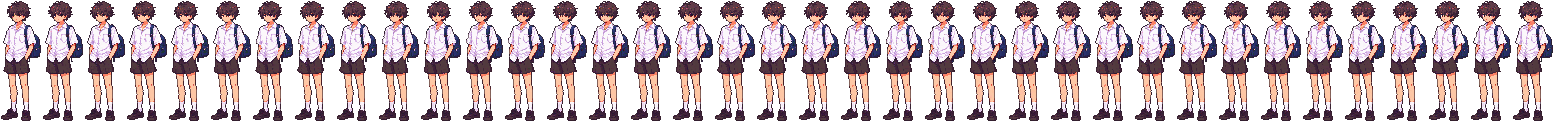
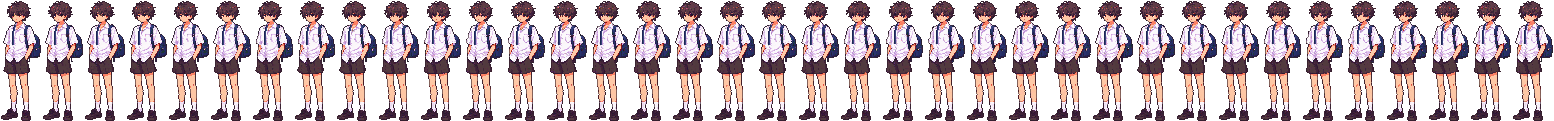
Idle: draw the backpack's second strap
The idle art wears the bag on one shoulder, so flipping the sprite to
face right moved the bag to the other side, while the walk shows both
straps. import_idle_video.py now draws a 2px navy strap over the free
shoulder in every frame, placed from that frame's collar row and
shoulder outline so it moves with the body (--no-strap to skip).

Claude-Session: https://claude.ai/code/session_011NAKRUA9btL4iodwTEM3Dh

diff --git a/tools/import_idle_video.py b/tools/import_idle_video.py
@@ -9,6 +9,10 @@ For standing still it also:
   - scales the character so the shirt collar is as high above the ground as in the
     idle sprite, so walking and standing match
   - keeps one sampling grid for all frames, so still parts don't shimmer
+  - draws the backpack's second strap over the free shoulder (the source art wears
+    the bag on one shoulder, so flipping the sprite moved the bag to the other side;
+    the walk shows both straps). It follows the collar and the shoulder outline
+    frame by frame.
 
 Usage:
   python3 tools/import_idle_video.py VIDEO assets/characters/hero_idle_video.png \\
@@ -28,6 +32,26 @@ from import_walk_video import (add_outline, cell_sample, features, is_green,  # 
                                kmeans, landmarks, nearest, shift_img)
 
 
+# Second strap, relative to the collar row (first row with 6+ white shirt pixels) and
+# the outline of the free shoulder 8 rows below it: (dy, dx) of the strap's left column.
+STRAP = [(-1, 8), (0, 8), (1, 7), (2, 7), (3, 7), (4, 7)] + [(dy, 6) for dy in range(5, 19)]
+STRAP_DARK, STRAP_LIT = (30, 38, 84, 255), (54, 66, 122, 255)
+
+
+def add_strap(frame):
+    a = frame[..., 3] > 0
+    white = a & (frame[..., :3].min(2) > 185)
+    collar = next(y for y in range(frame.shape[0]) if white[y].sum() >= 6)
+    left = int(np.nonzero(a[collar + 8])[0].min())
+    out = frame.copy()
+    for dy, dx in STRAP:
+        y, x = collar + dy, left + dx
+        if a[y, x] and a[y, x + 1]:
+            out[y, x] = STRAP_DARK
+            out[y, x + 1] = STRAP_LIT
+    return out
+
+
 def main():
     ap = argparse.ArgumentParser()
     ap.add_argument("video")
@@ -37,6 +61,7 @@ def main():
     ap.add_argument("--step", type=int, default=2, help="keep every n-th frame (24 fps / 2 = 12 fps)")
     ap.add_argument("--palette", required=True, help="idle sprite whose colours and proportions to match")
     ap.add_argument("--materials", type=int, default=9)
+    ap.add_argument("--no-strap", action="store_true", help="don't draw the second backpack strap")
     args = ap.parse_args()
 
     with tempfile.TemporaryDirectory() as tmp:
@@ -115,6 +140,8 @@ def main():
     sheet = Image.new("RGBA", (out_w * len(cells), out_h), (0, 0, 0, 0))
     for i, ((mt, _), rgb) in enumerate(zip(cells, out_rgb)):
         frame = add_outline(np.dstack([rgb, (mt >= 0) * 255]).astype(np.uint8), edge_colour)
+        if not args.no_strap:
+            frame = add_strap(frame)
         sheet.paste(Image.fromarray(frame, "RGBA"), (i * out_w, 0))
     sheet.save(args.out)
     marks = [landmarks(np.asarray(sheet.crop((i * out_w, 0, (i + 1) * out_w, out_h)))) for i in range(len(cells))]

diff --git a/README.md b/README.md
@@ -98,6 +98,8 @@ python3 tools/import_idle_video.py art_source/hero_idle_greenscreen.mp4 assets/c
 ใช้ช่วงเฟรม 39-111 ของวิดีโอ (3 วินาที เฟรมท้ายต่อเฟรมแรกได้เนียน) เก็บทุก 2 เฟรม = 37 เฟรม เล่นวนที่ 12 เฟรม/วินาที
 ขั้นตอนเหมือนท่าเดิน (ลบฉากเขียว ตัดพิกเซลตามวัสดุ ใช้สีจากภาพยืน เส้นขอบ) และเพิ่ม: ตรึงเท้าให้อยู่ที่เดิมทุกเฟรม
 (ตัวยังโยกได้ แต่ภาพไม่ไหลตามกล้อง/AI) ย่อให้ปกเสื้อสูงเท่าภาพยืน และใช้ตารางพิกเซลเดียวกันทุกเฟรม (ส่วนที่นิ่งจึงไม่ยิบ)
+และวาดสายเป้เส้นที่สองบนไหล่ที่ว่าง (ภาพต้นฉบับสะพายไหล่เดียว พลิกภาพแล้วกระเป๋าย้ายข้าง ส่วนท่าเดินเห็นสายสองข้าง)
+โดยตามปกเสื้อและขอบไหล่ทีละเฟรม (`--no-strap` เพื่อไม่วาด)
 `hero_walker.gd`: `idle_fps` > 0 = เล่นแผ่นภาพนี้, `ground_row` = แถวที่เท้าแตะพื้น (ภาพยืน/ท่าเดินวางเท้าแถวเดียวกัน)
 
 ### ท่ายืนเคลื่อนไหวจากภาพนิ่ง (สำรอง, `idle_fps = 0`)
